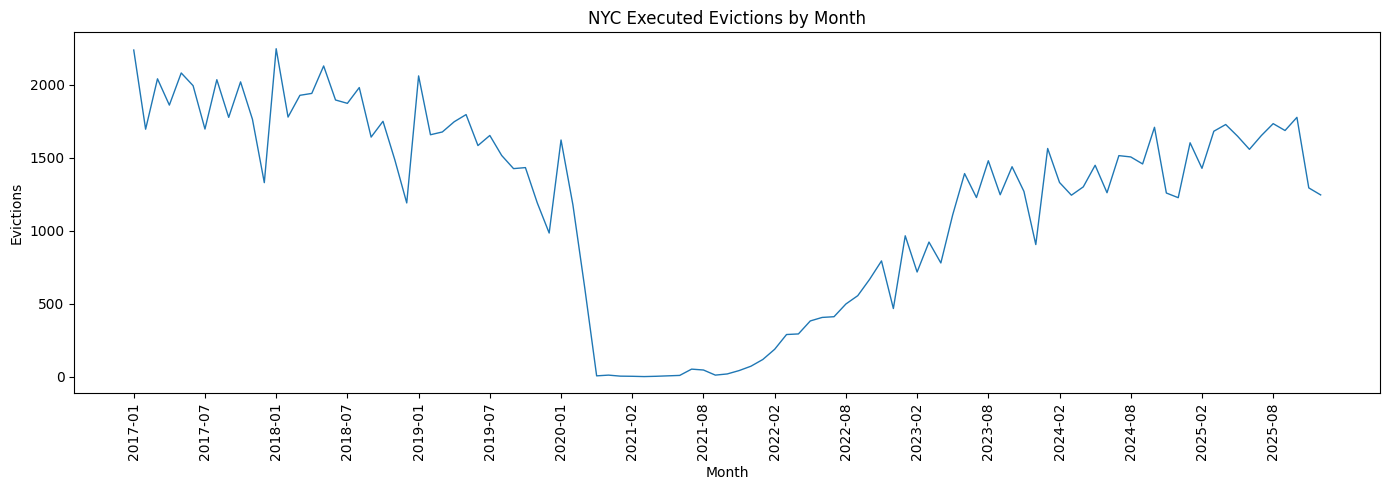
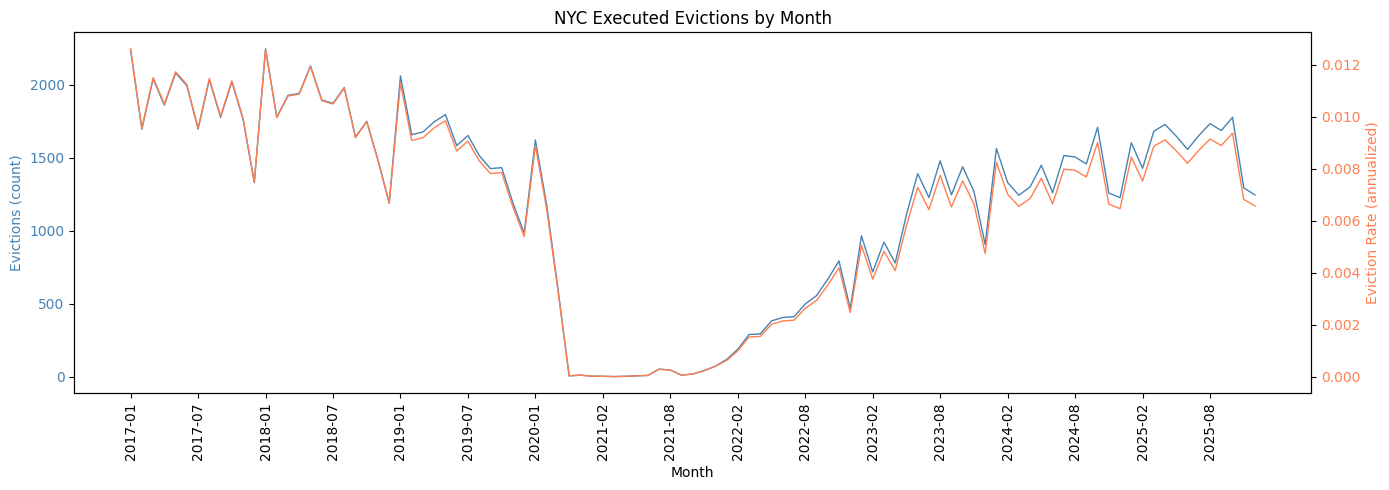
Eviction rates citywide

diff --git a/scripts/download_acs_housing_tenure.py b/scripts/download_acs_housing_tenure.py
@@ -1,0 +1,98 @@
+#!/usr/bin/env python3
+"""Download ACS housing tenure data for NYC boroughs from the Census API."""
+
+import argparse
+import requests
+import pandas as pd
+from pathlib import Path
+
+DATA_DIR = Path(__file__).parent.parent / "data"
+
+# NYC borough FIPS codes (State 36 = NY)
+NYC_COUNTIES = {
+    "Bronx": "005",
+    "Brooklyn": "047",  # Kings County
+    "Manhattan": "061",  # New York County
+    "Queens": "081",
+    "Staten Island": "085",  # Richmond County
+}
+
+# ACS variables for housing tenure (Table B25003)
+TENURE_VARS = {
+    "B25003_001E": "total_occupied_units",
+    "B25003_002E": "owner_occupied",
+    "B25003_003E": "renter_occupied",
+}
+
+
+def download_acs_tenure(year: int = 2023):
+    """Download ACS 1-year tenure data for NYC boroughs.
+
+    Args:
+        year: ACS 1-year estimate year (e.g., 2023)
+    """
+    DATA_DIR.mkdir(exist_ok=True)
+
+    base_url = f"https://api.census.gov/data/{year}/acs/acs1"
+    variables = ",".join(TENURE_VARS.keys())
+
+    # Fetch all NYC counties in one request
+    county_fips = ",".join(NYC_COUNTIES.values())
+    params = {
+        "get": f"NAME,{variables}",
+        "for": f"county:{county_fips}",
+        "in": "state:36",
+    }
+
+    print(f"Fetching ACS {year} 1-year estimates for NYC boroughs...")
+    response = requests.get(base_url, params=params)
+    response.raise_for_status()
+
+    data = response.json()
+    headers = data[0]
+    rows = data[1:]
+
+    # Build DataFrame
+    df = pd.DataFrame(rows, columns=headers)
+
+    # Add borough names
+    fips_to_borough = {v: k for k, v in NYC_COUNTIES.items()}
+    df["borough"] = df["county"].map(fips_to_borough)
+
+    # Rename and convert columns
+    df = df.rename(columns=TENURE_VARS)
+    for col in TENURE_VARS.values():
+        df[col] = pd.to_numeric(df[col], errors="coerce")
+
+    # Add year column
+    df["year"] = year
+
+    # Reorder columns
+    df = df[["year", "borough", "NAME", "state", "county"] + list(TENURE_VARS.values())]
+
+    # Save
+    output_path = DATA_DIR / f"acs_tenure_{year}.csv"
+    df.to_csv(output_path, index=False)
+
+    print(f"Saved to {output_path}")
+    print(f"\nACS {year} 1-Year Estimates - Housing Tenure:")
+    print(df[["borough"] + list(TENURE_VARS.values())].to_string(index=False))
+
+    return df
+
+
+def main():
+    parser = argparse.ArgumentParser(description="Download ACS housing tenure data for NYC")
+    parser.add_argument(
+        "--year", "-y",
+        type=int,
+        default=2023,
+        help="ACS 1-year estimate year (default: 2023)"
+    )
+    args = parser.parse_args()
+
+    download_acs_tenure(year=args.year)
+
+
+if __name__ == "__main__":
+    main()

diff --git a/scripts/download_opendata.py b/scripts/download_opendata.py
@@ -9,7 +9,7 @@ from pathlib import Path
 
 load_dotenv()
 
-DATA_DIR = Path(__file__).parent / "data"
+DATA_DIR = Path(__file__).parent.parent / "data"
 BASE_URL = "https://data.cityofnewyork.us"
 
 # Auth credentials

diff --git a/README.md b/README.md
@@ -31,4 +31,16 @@ OPENDATA_API_KEY_SECRET=...
   - This includes executed evictions only - meaning evictions that were actually carried out by city marshals, not just filings or court cases. According to claude, some eviction cases might: get dismissed; result in settlements; lead to voluntary move-outs before execution; get withdrawn
     - Per https://council.nyc.gov/data/evictions/: "out of the 230,071 eviction petitions filed by building owners at NYC Housing Court in 2017, only 9% or 20,804 evictions were executed by the City marshall".
     - Each eviction pertains to one eviction case, which means one housing unit, not one individual
-    - "Eviction rate" is calculated as (# executed evictions / # total residential units). So, for example one might say "the bronx has 1 eviction per 79 units".
+  - Methods for "eviction rate" follow https://evictionlab.org/methods/#filings-and-rates
+    - Filing rate: (# evictions filed / # renter-occupied homes)
+    - Eviction rate: (# executed evictions / # renter occupied-homes). So, for example one might say "the bronx has 1 eviction per 79 units".
+    - The filing rate also counts all eviction cases filed in an area, including multiple cases filed against the same address in the same year. But an eviction rate only counts a single address who received an eviction judgment.
+    - For the denominator of our rate, we used the number of occupied renting households in each area. Used ACS 1-year estimates for boroughs, 5-year estimates for zips (1-year doesn't have that granularity). Eviction lab supplements with ESRI Business Analyst demographic estimates, we don't. 2020 and 2025 are missing, so we use 2019 and 2024 respectively
+- Other sources of data vis
+  https://evictionlab.org/eviction-tracking/new-york-ny/
+
+- Housing units (by month/quarter/year, by zipcode/borough):
+
+* Possible source: DCP Housing Database? https://data.cityofnewyork.us/Housing-Development/Housing-Database/6umk-irkx/about_data
+* Possible source: Pluto? https://data.cityofnewyork.us/City-Government/Primary-Land-Use-Tax-Lot-Output-PLUTO-/64uk-42ks
+* Possible source: annual census, NYC Housing and Vacancy Survey? https://www.nyc.gov/assets/hpd/downloads/pdfs/about/2023-nychvs-selected-initial-findings.pdf
